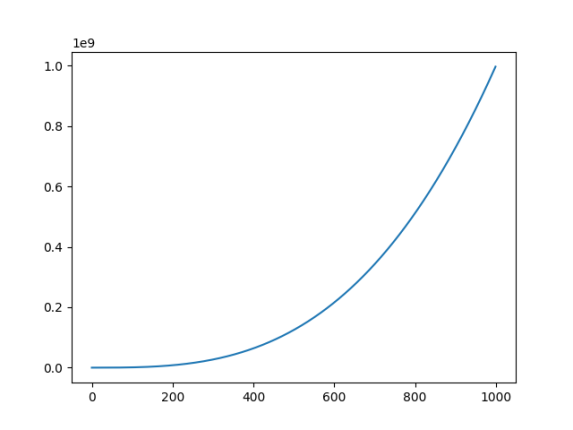
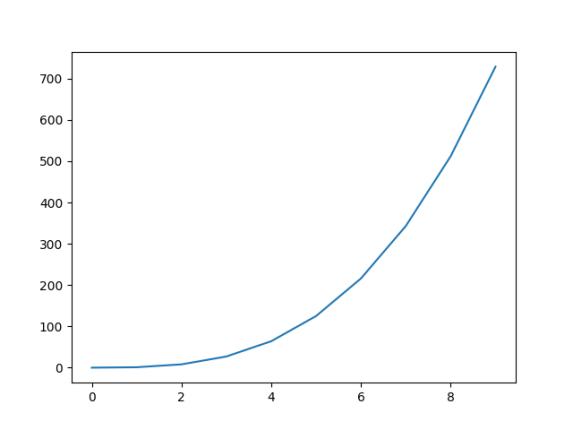
.

diff --git a/design.py b/design.py
@@ -25,9 +25,9 @@ class Ui_MainWindow(object):
         self.startCalcTest = QtWidgets.QPushButton(self.testTab)
         self.startCalcTest.setGeometry(QtCore.QRect(10, 50, 161, 28))
         self.startCalcTest.setObjectName("startCalcTest")
-        self.textEdit_2 = QtWidgets.QTextEdit(self.testTab)
-        self.textEdit_2.setGeometry(QtCore.QRect(40, 10, 141, 31))
-        self.textEdit_2.setObjectName("textEdit_2")
+        self.gridNumberTest = QtWidgets.QTextEdit(self.testTab)
+        self.gridNumberTest.setGeometry(QtCore.QRect(40, 10, 141, 31))
+        self.gridNumberTest.setObjectName("gridNumberTest")
         self.label_2 = QtWidgets.QLabel(self.testTab)
         self.label_2.setGeometry(QtCore.QRect(10, 15, 21, 19))
         self.label_2.setObjectName("label_2")
@@ -55,9 +55,9 @@ class Ui_MainWindow(object):
         self.label = QtWidgets.QLabel(self.mainTab)
         self.label.setGeometry(QtCore.QRect(10, 15, 21, 19))
         self.label.setObjectName("label")
-        self.textEdit = QtWidgets.QTextEdit(self.mainTab)
-        self.textEdit.setGeometry(QtCore.QRect(40, 10, 141, 31))
-        self.textEdit.setObjectName("textEdit")
+        self.gridNumberMain = QtWidgets.QTextEdit(self.mainTab)
+        self.gridNumberMain.setGeometry(QtCore.QRect(40, 10, 141, 31))
+        self.gridNumberMain.setObjectName("gridNumberMain")
         self.graph1Main = QtWidgets.QLabel(self.mainTab)
         self.graph1Main.setGeometry(QtCore.QRect(270, 0, 700, 430))
         self.graph1Main.setText("")
@@ -84,7 +84,7 @@ class Ui_MainWindow(object):
         _translate = QtCore.QCoreApplication.translate
         MainWindow.setWindowTitle(_translate("MainWindow", "MainWindow"))
         self.startCalcTest.setText(_translate("MainWindow", "Начать вычисления"))
-        self.textEdit_2.setHtml(_translate("MainWindow", "<!DOCTYPE HTML PUBLIC \"-//W3C//DTD HTML 4.0//EN\" \"http://www.w3.org/TR/REC-html40/strict.dtd\">\n"
+        self.gridNumberTest.setHtml(_translate("MainWindow", "<!DOCTYPE HTML PUBLIC \"-//W3C//DTD HTML 4.0//EN\" \"http://www.w3.org/TR/REC-html40/strict.dtd\">\n"
 "<html><head><meta name=\"qrichtext\" content=\"1\" /><style type=\"text/css\">\n"
 "p, li { white-space: pre-wrap; }\n"
 "</style></head><body style=\" font-family:\'MS Shell Dlg 2\'; font-size:9.6pt; font-weight:400; font-style:normal;\">\n"
@@ -94,7 +94,7 @@ class Ui_MainWindow(object):
         self.rootTabControl.setTabText(self.rootTabControl.indexOf(self.accuracy), _translate("MainWindow", "График точности для тестовой задачи"))
         self.startCalcMain.setText(_translate("MainWindow", "Начать вычисления"))
         self.label.setText(_translate("MainWindow", "N:"))
-        self.textEdit.setHtml(_translate("MainWindow", "<!DOCTYPE HTML PUBLIC \"-//W3C//DTD HTML 4.0//EN\" \"http://www.w3.org/TR/REC-html40/strict.dtd\">\n"
+        self.gridNumberMain.setHtml(_translate("MainWindow", "<!DOCTYPE HTML PUBLIC \"-//W3C//DTD HTML 4.0//EN\" \"http://www.w3.org/TR/REC-html40/strict.dtd\">\n"
 "<html><head><meta name=\"qrichtext\" content=\"1\" /><style type=\"text/css\">\n"
 "p, li { white-space: pre-wrap; }\n"
 "</style></head><body style=\" font-family:\'MS Shell Dlg 2\'; font-size:9.6pt; font-weight:400; font-style:normal;\">\n"

diff --git a/ui.py b/ui.py
@@ -22,7 +22,14 @@ class ExampleApp(QtWidgets.QMainWindow, design.Ui_MainWindow):
     def drawMain(self):
         graphName = "graphMain.png"
 
-        x = [i for i in range(1000)]
+        N = 0
+
+        try:
+            N = int(self.gridNumberMain.toPlainText())
+        except BaseException:
+            return
+
+        x = [i for i in range(N)]
         y = [i * i for i in x]
 
         plt.plot(x, y)
@@ -31,6 +38,7 @@ class ExampleApp(QtWidgets.QMainWindow, design.Ui_MainWindow):
 
         size = self.graph1Main.size()
         height = size.height()
+        
         self.resizeImage(graphName, height)
 
         pixmap = QPixmap(graphName)
@@ -46,7 +54,14 @@ class ExampleApp(QtWidgets.QMainWindow, design.Ui_MainWindow):
     def drawTest(self):
         graphName = "graphTest.png"
 
-        x = [i for i in range(1000)]
+        N = 0
+
+        try:
+            N = int(self.gridNumberTest.toPlainText())
+        except BaseException:
+            return
+
+        x = [i for i in range(N)]
         y = [i * i * i for i in x]
 
         plt.subplot(111)
@@ -56,6 +71,7 @@ class ExampleApp(QtWidgets.QMainWindow, design.Ui_MainWindow):
 
         size = self.graph1Test.size()
         height = size.height()
+
         self.resizeImage(graphName, height)
 
         pixmap = QPixmap(graphName)
